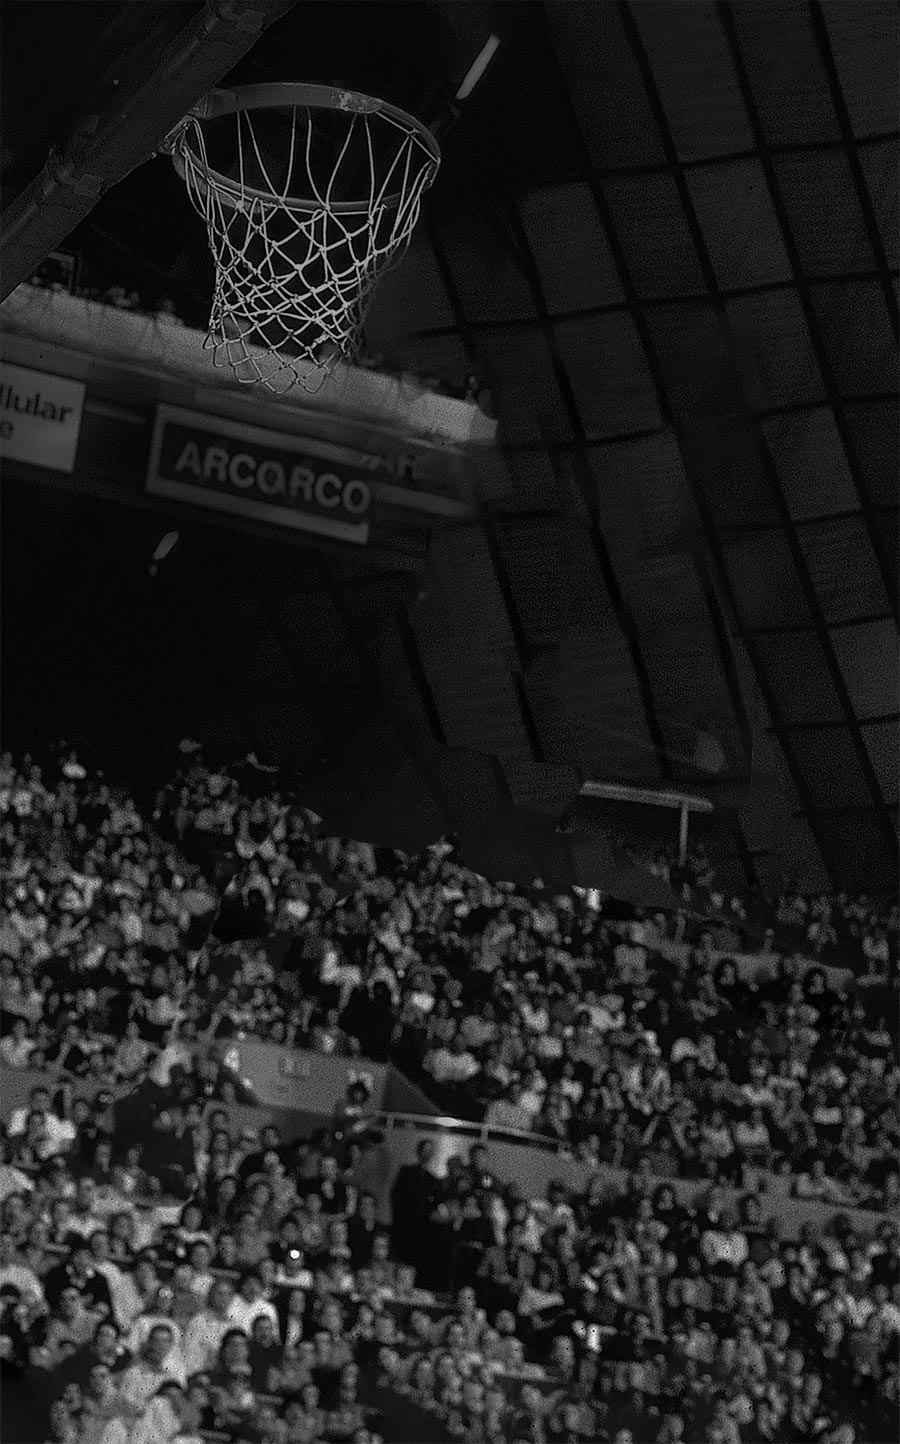
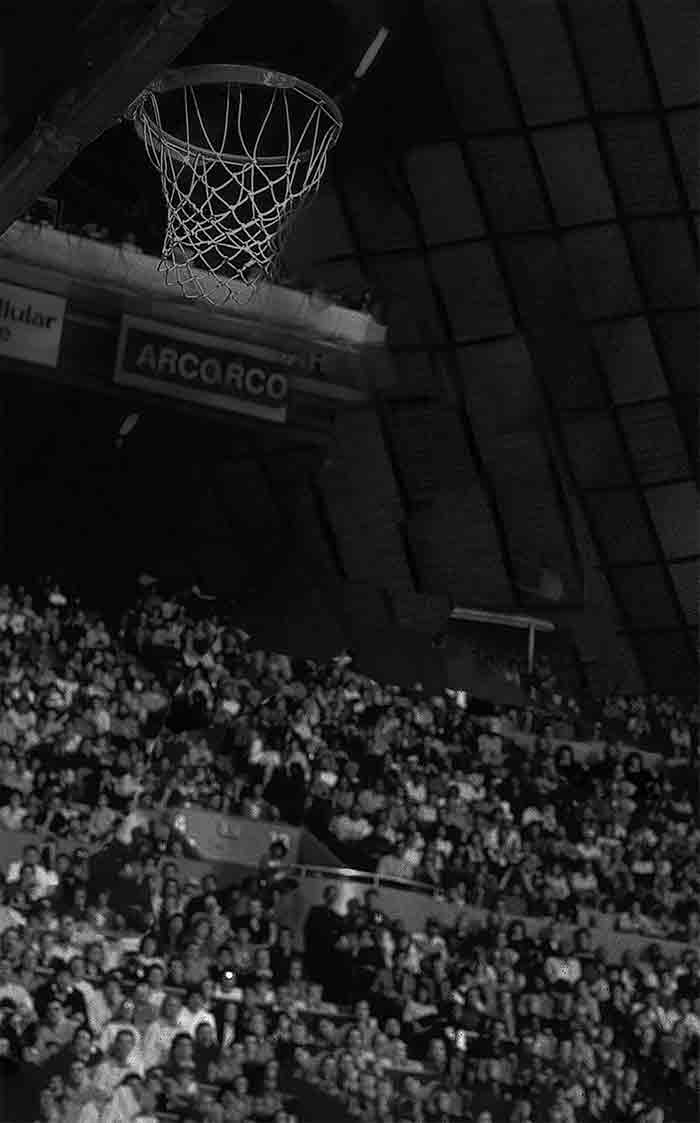
Image loading solution

Changed region(s): [[0.21, 0.0935, 0.48, 0.2493]]

diff --git a/src/Components/AnimatedImage/index.js b/src/Components/AnimatedImage/index.js
@@ -1,7 +1,9 @@
-import React, { useEffect } from "react";
+import React, { useEffect, useState } from "react";
 import { useSpring, animated } from "react-spring";
 import backdrop from "../../Img/Backdrop.jpg";
+import backdrop2 from "../../Img/Backdrop2.jpg";
 import jordan from "../../Img/jordan.png";
+import jordan2 from "../../Img/jordan2.png";
 import Aos from "aos";
 import "aos/dist/aos.css";
 
@@ -13,6 +15,7 @@ const trans1 = (x, y) => `translate3d(${x / 70}px,${y / 30}px,0) scale(1.2)`;
 const trans2 = (x, y) => `translate3d(${x / 150}px,${y / 80}px,0) `;
 
 const AnimatedImage = () => {
+  // Scroll Animation
   useEffect(() => {
     Aos.init({ duration: 3000 });
   }, []);
@@ -38,6 +41,29 @@ const AnimatedImage = () => {
   const onMouseMove = ({ clientX: x, clientY: y }) => {
     set({ xy: calc(x, y) });
   };
+
+  // Image loading
+  const [loading, setLoading] = useState(true);
+  const [currentJordanSrc, updateJordanSrc] = useState(jordan2);
+  const [currentBgSrc, updateBgSrc] = useState(backdrop2);
+
+  useEffect(() => {
+    // start loading original image
+    const jordanImageToLoad = new Image();
+    const bgImageToLoad = new Image();
+    jordanImageToLoad.src = jordan;
+    bgImageToLoad.src = backdrop;
+    jordanImageToLoad.onload = () => {
+      // When image is loaded replace the src and set loading to false
+      setLoading(false);
+      updateJordanSrc(jordan);
+    };
+    bgImageToLoad.onload = () => {
+      // When image is loaded replace the src and set loading to false
+      setLoading(false);
+      updateBgSrc(backdrop);
+    };
+  }, []);
   return (
     <div
       data-aos="fade"
@@ -45,17 +71,25 @@ const AnimatedImage = () => {
       data-aos-once
       className={`container`}>
       <animated.img
-        style={{ transform: props.xy.interpolate(trans2) }}
-        src={jordan}
+        style={{
+          transform: props.xy.interpolate(trans2),
+          opacity: loading ? 0.5 : 1,
+          transition: "opacity .15s linear",
+        }}
+        src={currentJordanSrc}
         alt=""
         className="image image__front"
       />
 
       <animated.img
-        src={backdrop}
+        src={currentBgSrc}
         alt=""
         className="image image__back"
-        style={{ transform: props.xy.interpolate(trans1) }}
+        style={{
+          transform: props.xy.interpolate(trans1),
+          opacity: loading ? 0.5 : 1,
+          transition: "opacity .15s linear",
+        }}
       />
     </div>
   );
